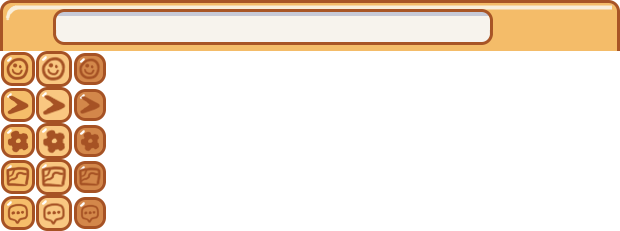
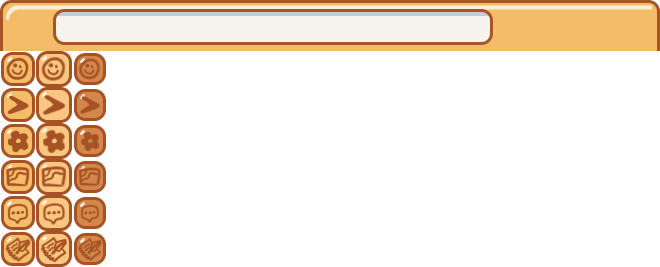
Add Inventory scrolling Add Quests menu button Add User list menu Fix NPC reply button hovering

Changed region(s): [[0.0, 0.0, 1.0, 1.0]]

diff --git a/website/game/menu/chat.js b/website/game/menu/chat.js
@@ -27,8 +27,9 @@ MENUS["chatMenu"] = new class extends Menu {
 		this.buttons[0] = new Button(false, ()=>{this.emoteMenuOpen = !this.emoteMenuOpen}, {image: IMG.chat, frames:[SPRITE.chatButton.getFrame(0,0),SPRITE.chatButton.getFrame(1,0),SPRITE.chatButton.getFrame(2,0)]}, 216,535, 34,34) 
 		this.buttons[1] = new Button(false, ()=>{this.enter()}, {image: IMG.chat, frames:[SPRITE.chatButton.getFrame(0,1),SPRITE.chatButton.getFrame(1,1),SPRITE.chatButton.getFrame(2,1)]}, 661,535, 34,34) 
 		this.buttons[2] = new Button(false, ()=>{if (getOpenMenu() != "customization") {openMenu("customization")} else {closeMenu()}}, {image: IMG.chat, frames:[SPRITE.chatButton.getFrame(0,2),SPRITE.chatButton.getFrame(1,2),SPRITE.chatButton.getFrame(2,2)]}, 699,535, 34,34) 
-		this.buttons[3] = new Button(false, ()=>{if (getOpenMenu() != "mapMenu") {openMenu("mapMenu")} else {closeMenu()}}, {image: IMG.chat, frames:[SPRITE.chatButton.getFrame(0,3),SPRITE.chatButton.getFrame(1,3),SPRITE.chatButton.getFrame(2,3)]}, 737,535, 34,34) 
-		this.buttons[4] = new Button(false, ()=>{if (getOpenMenu() != "usersMenu") {openMenu("usersMenu")} else {closeMenu()}}, {image: IMG.chat, frames:[SPRITE.chatButton.getFrame(0,4),SPRITE.chatButton.getFrame(1,4),SPRITE.chatButton.getFrame(2,4)]}, 775,535, 34,34) 
+		this.buttons[3] = new Button(false, ()=>{if (getOpenMenu() != "mapMenu") {openMenu("mapMenu")} else {closeMenu()}}, {image: IMG.chat, frames:[SPRITE.chatButton.getFrame(0,3),SPRITE.chatButton.getFrame(1,3),SPRITE.chatButton.getFrame(2,3)]}, 737,535, 34,34)
+		this.buttons[4] = new Button(false, ()=>{if (getOpenMenu() != "usersMenu") {openMenu("usersMenu")} else {closeMenu()}}, {image: IMG.chat, frames:[SPRITE.chatButton.getFrame(0,4),SPRITE.chatButton.getFrame(1,4),SPRITE.chatButton.getFrame(2,4)]}, 775,535, 34,34)
+		this.buttons[5] = new Button(false, ()=>{if (getOpenMenu() != "questsMenu") {openMenu("questsMenu")} else {closeMenu()}}, {image: IMG.chat, frames:[SPRITE.chatButton.getFrame(0,5),SPRITE.chatButton.getFrame(1,5),SPRITE.chatButton.getFrame(2,5)]}, 813,535, 34,34) 
 
 		this.textField = document.getElementById('gameTextInput');
 		this.textField.addEventListener('keydown', (event) => {
@@ -36,7 +37,7 @@ MENUS["chatMenu"] = new class extends Menu {
 				this.enter()
 			}
 		});
-		this.buttons[5] = new Button(false, ()=>{this.open = true; this.typing = true; this.timer = 0; this.textField.focus()}, {visible: false}, 255,534, 406,36) 
+		this.buttons[6] = new Button(false, ()=>{this.open = true; this.typing = true; this.timer = 0; this.textField.focus()}, {visible: false}, 255,534, 406,36) 
 	}
 
 	enter() {

diff --git a/website/game/menu/itemgrid.js b/website/game/menu/itemgrid.js
@@ -31,6 +31,9 @@ class ItemGrid {
 
 		// Vertical scroll
 		this.scroll = 0
+		this.buttons = []
+		this.buttons["scrollUp"] = new Button("", ()=>{this.scrollUp()}, null, this.x+this.w, this.y, 20, 20)
+		this.buttons["scrollDown"] = new Button("", ()=>{this.scrollDown()}, null, this.x+this.w, this.y+this.h-20, 20, 20)
 
         this.hover = false;
         this.holding = false;
@@ -58,13 +61,21 @@ class ItemGrid {
 			}
 
 			this.hover = true
-            CURSOR.on = true;
+			let i = this.getCellIndex(cx, cy) // Index of cell
+			if (this.list[i]) { 
+          		CURSOR.on = true;
+			}
 		} else {
 			this.hover = false
 		}
+
+		// Scroll bar
+		for (const button in this.buttons) {
+			this.buttons[button].update(dt)
+		}
     }
 
-    click(){
+    click(button, x, y){
         let [cx, cy] = this.checkMouseInside();
         if (cx !== false && cy !== false) {
 			this.overx = cx
@@ -72,13 +83,39 @@ class ItemGrid {
             this.holding = true
             return true
         }
+
+		// Scroll bar
+		for (const button in this.buttons) {
+			this.buttons[button].click(button, x, y)
+		}
     }
-    clickRelease(){
+    clickRelease(button, x, y){
         if (this.holding == true){
-            this.holding = false;
 			this.gridAction(this.overx, this.overy)
         }
+
+		// Scroll bar
+		for (const button in this.buttons) {
+			this.buttons[button].clickRelease(button, x, y)
+		}
     }
+	mouseScroll(dy){
+		if (this.hover) {
+			if (dy < 0) {
+				this.scrollUp()
+			} else {
+				this.scrollDown()
+			}
+		}
+	}
+	scrollUp(){
+		this.scroll -= 1
+		this.scroll = Math.max(0, Math.min(this.scroll, this.list.length/this.gw-this.gh))
+	}
+	scrollDown(){
+		this.scroll += 1
+		this.scroll = Math.max(0, Math.min(this.scroll, this.list.length/this.gw-this.gh))
+	}
 
 	getCellIndex(cx, cy) {
 		return cx + (cy+this.scroll)*this.gw // Index of cell
@@ -163,8 +200,12 @@ class ItemGrid {
 				DRAW.text(ITEMS[itemType][this.list[i]].name, mouseX+20, mouseY+20, "left")
 			}
 		}
+
+		// Scroll bar
+		DRAW.setColor(168, 85, 38, 1);
+		DRAW.rectangle(this.x+this.w, this.y, 20, this.h, "fill");
+		for (const button in this.buttons) {
+			this.buttons[button].draw()
+		}
     }
 }
-
-//need to add states
-//need callbacks, click, clickRelease

diff --git a/website/game/menu/shop.js b/website/game/menu/shop.js
@@ -54,7 +54,8 @@ MENUS["shop"] = new class extends Menu {
 					this.selectedItem = itemId
 					this.selectedItemType = itemType
 					if (ITEMS[itemType][itemId].description) {
-						this.selectedItemDescription = DRAW.wrapText(ITEMS[itemType][itemId].description, 110)
+						DRAW.setFont(FONT.description)
+						this.selectedItemDescription = DRAW.wrapText(ITEMS[itemType][itemId].description, 200)
 					} else {
 						this.selectedItemDescription = false
 					}
@@ -115,6 +116,10 @@ MENUS["shop"] = new class extends Menu {
 	mouseRelease(button, x, y) {
 		return super.mouseRelease(button, x, y)
 	}
+
+	mouseScroll(dy) {
+		return super.mouseScroll(dy)
+	}
 	
 	draw() {
 		// Window
@@ -132,7 +137,7 @@ MENUS["shop"] = new class extends Menu {
 		// Item information
 		if (this.selectedItem) {
 			let item = ITEMS[this.selectedItemType][this.selectedItem]
-			DRAW.text(item.name, 553, 210, "left")
+			DRAW.text(item.name, 563, 210, "left")
 
 			if (SAVEDATA.items[this.selectedItemType][this.selectedItem]) {
 				DRAW.text(`Owned: ${SAVEDATA.items[this.selectedItemType][this.selectedItem]}`, 764, 360, "right")
@@ -144,11 +149,11 @@ MENUS["shop"] = new class extends Menu {
 			DRAW.setFont(FONT.description)
 			if (this.selectedItemDescription) {
 				for (let i = 0; i < this.selectedItemDescription.length; i++) {
-					DRAW.text(this.selectedItemDescription[i], 553, 242 + i * 20, "left")
+					DRAW.text(this.selectedItemDescription[i], 563, 242 + i * 20, "left")
 				}
 			}
 		} else {
-			DRAW.text("Select an item.", 553, 210, "left")
+			DRAW.text("Select an item.", 563, 210, "left")
 		}
 
 		// Render all buttons

diff --git a/website/game/menu/quests.js b/website/game/menu/quests.js
@@ -1,6 +1,7 @@
-// Users menu; Displays all connected users
+// Quests Menu
+// Lists out all active quests and their steps
 
-MENUS["usersMenu"] = new class extends Menu {
+MENUS["questsMenu"] = new class extends Menu {
 	//Initialize
 	constructor () {
 		super(234,104, 560,350)
@@ -11,14 +12,7 @@ MENUS["usersMenu"] = new class extends Menu {
 
 		this.buttons = {}
 
-		// Get list of connected player names
-		this.connectedPlayers = [PROFILE.name]
-		if (NETPLAY.playerList) {
-			console.log(NETPLAY.playerList)
-			for (const [id, data] of Object.entries(NETPLAY.playerList)) {
-				this.connectedPlayers.push(data.profile.name)
-			}
-		}
+		this.quests = QuestSystem.getAllActiveQuests()
     }
 
 	keyPress(key) {
@@ -46,10 +40,20 @@ MENUS["usersMenu"] = new class extends Menu {
         // Text
         DRAW.setColor(112, 50, 16, scale)
         DRAW.setFont(FONT.caption)
-        DRAW.text("Connected Players", 512, 142, "center")
+        //DRAW.text("Connected Players", 512, 142, "center")
+		DRAW.text("Quests", 512, this.y+38, "center")
 
-		for (let i=0; i<this.connectedPlayers.length; i++) {
-			DRAW.text(this.connectedPlayers[i], this.x+20, this.y+80+25*i, "left")
+		let y = 170
+		for (let questName in this.quests) {
+			let quest = QuestSystem.getQuest(questName)
+			DRAW.text(quest.name, this.x+20, y, "left")
+			for (let i=0; i<quest.progress.length; i++) {
+				DRAW.text(quest.progressDescription[i], this.x+40, y+20, "left")
+				DRAW.text(quest.progress[i] + "/" + quest.progressFinish[i], this.x+470, y+20, "left")
+				y += 20
+			}
+
+			y += 20
 		}
 
 		// Render all buttons

diff --git a/website/game/objects/npc.js b/website/game/objects/npc.js
@@ -112,6 +112,13 @@ class NPC {
         if (!char.bubbleText && this.awaitingReply) {
             this.closeReply()
         }
+
+        // Responses
+        if (this.replyButtons.length > 0) {
+            for (const replyButton of this.replyButtons) {
+                replyButton.update(dt)
+            }
+        }
 	}
 
     draw() {
@@ -119,6 +126,24 @@ class NPC {
         if (this.replyButtons.length > 0) {
             for (const replyButton of this.replyButtons) {
                 replyButton.draw()
+            }
+        }
+    }
+
+    click(button, x, y) {
+        if (this.replyButtons.length > 0) {
+            for (const replyButton of this.replyButtons) {
+                if (replyButton.click()) {
+                    return true
+                }
+            }
+        }
+    }
+
+    clickRelease(button, x, y) {
+        if (this.replyButtons.length > 0) {
+            for (const replyButton of this.replyButtons) {
+                replyButton.clickRelease()
             }
         }
     }

diff --git a/website/game/world.js b/website/game/world.js
@@ -387,12 +387,8 @@ class World {
 		
 		// NPC speechBubble responses
 		for (const [id, obj] of Object.entries(NPCS)) {
-			if (obj.replyButtons.length > 0) {
-				for (const replyButton of obj.replyButtons) {
-					if (replyButton.click()) {
-						return true
-					}
-				}
+			if (obj.click(button, x, y)) {
+				return true
 			}
 		}
 		
@@ -411,10 +407,8 @@ class World {
 		CHAT.mouseRelease(button, x, y)
 		// NPC speechBubble responses
 		for (const [id, obj] of Object.entries(NPCS)) {
-			if (obj.replyButtons.length > 0) {
-				for (const replyButton of obj.replyButtons) {
-					replyButton.clickRelease()
-				}
+			if (obj.clickRelease(button, x, y)) {
+				return true
 			}
 		}
 		PLAYER_CONTROLLER.mouseRelease(button, x, y)

diff --git a/website/game/assets.js b/website/game/assets.js
@@ -45,8 +45,8 @@ function loadGameAssets() {
 	IMG.ammo = new RenderImage("assets/hud/ammo.png")
 	IMG.chat = new RenderImage("assets/hud/chat.png")
 	IMG.chatMessage = new RenderImage("assets/chat_message.png")
-	SPRITE.chat = new Sprite(IMG.chat, 1,1, 620,51)
-	SPRITE.chatButton = new Sprite(IMG.chat, 3,5, 36,36, 0,51)
+	SPRITE.chat = new Sprite(IMG.chat, 1,1, 660,51)
+	SPRITE.chatButton = new Sprite(IMG.chat, 3,6, 36,36, 0,51)
 	IMG.emoteMenu = new RenderImage("assets/gui/emote.png")
 	SPRITE.emoteButton = new Sprite(IMG.emoteMenu, 3,7, 36,36, 0,110)
 

diff --git a/website/game/state.js b/website/game/state.js
@@ -66,8 +66,14 @@ function stateMouseRelease(button, x, y) {
 }
 
 function stateScroll(dy) {
-	if (game_state.scroll) {
-		game_state.scroll(dy)
+	// Is menu open?
+	if (open_menu) {
+		if (MENUS[open_menu].mouseScroll(dy)) {
+			return true
+		}
+	}
+	if (game_state.mouseScroll) {
+		game_state.mouseScroll(dy)
 	}
 }
 

diff --git a/website/game/menu.js b/website/game/menu.js
@@ -59,6 +59,15 @@ class Menu {
 		}
 		return false
 	}
+
+	mouseScroll(dy) {
+		for (const [name, button] of Object.entries(this.buttons)) {
+			if (button.mouseScroll && button.mouseScroll(dy)) {
+				return true
+			}
+		}
+		return false
+	}
 }
 
 var MENUS = {}

diff --git a/website/index.html b/website/index.html
@@ -101,6 +101,7 @@
 	<script src="game/menu/shop.js"></script>
 	<script src="game/menu/chat.js"></script>
 	<script src="game/menu/emote.js"></script>
+	<script src="game/menu/quests.js"></script>
 
 	<script src="game/main.js"></script>
 </body>

diff --git a/website/game/input.js b/website/game/input.js
@@ -70,8 +70,8 @@ function mouseReleased(event) {
 }
 
 function mouseScroll(event) {
-	const delta = event.deltaY
-	return delta
+	const dy = event.deltaY
+	stateScroll(dy)
 }
 
 function checkMouseInside(x, y, w, h) {
